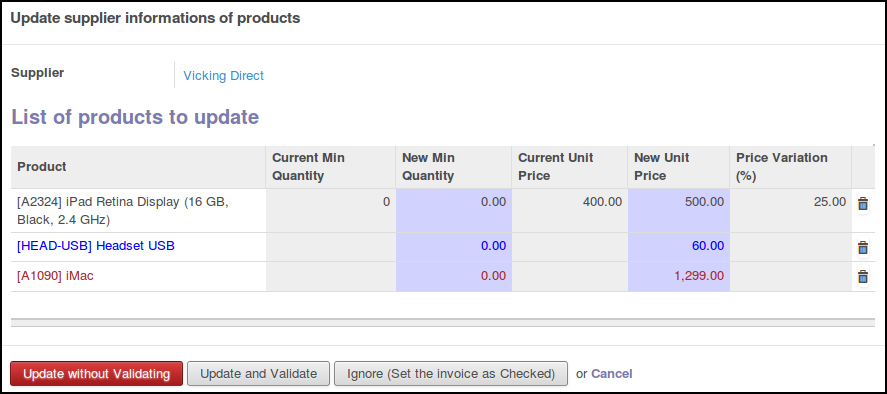
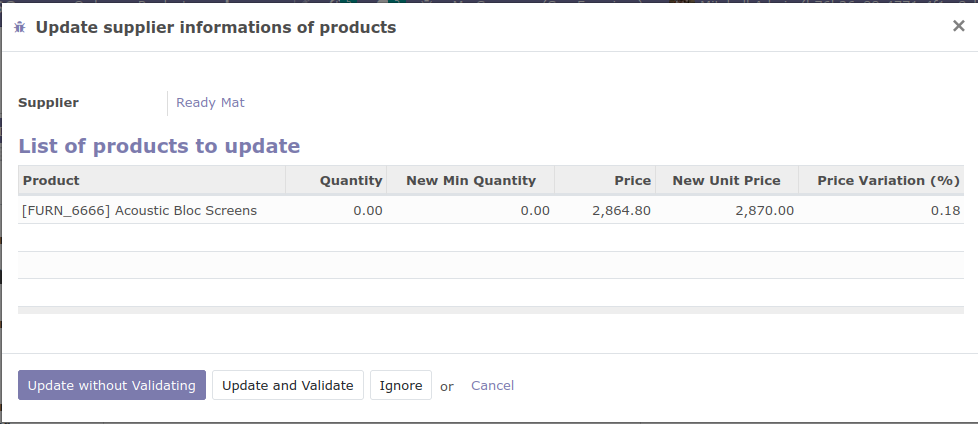
[MIG] account_invoice_supplierinfo_update: Migration to 14.0

diff --git a/account_invoice_supplierinfo_update/static/description/index.html b/account_invoice_supplierinfo_update/static/description/index.html
@@ -367,9 +367,12 @@ ul.auto-toc {
 !! This file is generated by oca-gen-addon-readme !!
 !! changes will be overwritten.                   !!
 !!!!!!!!!!!!!!!!!!!!!!!!!!!!!!!!!!!!!!!!!!!!!!!!!!!! -->
-<p><a class="reference external" href="https://odoo-community.org/page/development-status"><img alt="Beta" src="https://img.shields.io/badge/maturity-Beta-yellow.png" /></a> <a class="reference external" href="http://www.gnu.org/licenses/agpl-3.0-standalone.html"><img alt="License: AGPL-3" src="https://img.shields.io/badge/licence-AGPL--3-blue.png" /></a> <a class="reference external" href="https://github.com/OCA/account-invoicing/tree/13.0/account_invoice_supplierinfo_update"><img alt="OCA/account-invoicing" src="https://img.shields.io/badge/github-OCA%2Faccount--invoicing-lightgray.png?logo=github" /></a> <a class="reference external" href="https://translation.odoo-community.org/projects/account-invoicing-13-0/account-invoicing-13-0-account_invoice_supplierinfo_update"><img alt="Translate me on Weblate" src="https://img.shields.io/badge/weblate-Translate%20me-F47D42.png" /></a> <a class="reference external" href="https://runbot.odoo-community.org/runbot/95/13.0"><img alt="Try me on Runbot" src="https://img.shields.io/badge/runbot-Try%20me-875A7B.png" /></a></p>
-<p>This module allows to automatically update all products information in vendor bill for which the purchase information on the line are different from the supplier information defined in the product form.</p>
-<p>It creates a new supplier information line if there is not any or it updates the first one in the list.</p>
+<p><a class="reference external" href="https://odoo-community.org/page/development-status"><img alt="Beta" src="https://img.shields.io/badge/maturity-Beta-yellow.png" /></a> <a class="reference external" href="http://www.gnu.org/licenses/agpl-3.0-standalone.html"><img alt="License: AGPL-3" src="https://img.shields.io/badge/licence-AGPL--3-blue.png" /></a> <a class="reference external" href="https://github.com/OCA/account-invoicing/tree/14.0/account_invoice_supplierinfo_update"><img alt="OCA/account-invoicing" src="https://img.shields.io/badge/github-OCA%2Faccount--invoicing-lightgray.png?logo=github" /></a> <a class="reference external" href="https://translation.odoo-community.org/projects/account-invoicing-14-0/account-invoicing-14-0-account_invoice_supplierinfo_update"><img alt="Translate me on Weblate" src="https://img.shields.io/badge/weblate-Translate%20me-F47D42.png" /></a> <a class="reference external" href="https://runbot.odoo-community.org/runbot/95/14.0"><img alt="Try me on Runbot" src="https://img.shields.io/badge/runbot-Try%20me-875A7B.png" /></a></p>
+<p>This module allows to automatically update all products information in a vendor
+bill for which the purchase information on the line is different from the
+vendor information defined in the product form.</p>
+<p>It creates a new vendor information line if there isn’t any, or it updates the
+first one in the list.</p>
 <p><strong>Table of contents</strong></p>
 <div class="contents local topic" id="contents">
 <ul class="simple">
@@ -388,10 +391,11 @@ ul.auto-toc {
 <h1><a class="toc-backref" href="#id1">Usage</a></h1>
 <p>This module adds a new button ‘Check Supplier Info’ in supplier
 invoice form.</p>
-<img alt="https://raw.githubusercontent.com/OCA/account-invoicing/13.0/account_invoice_supplierinfo_update/static/description/supplier_invoice_form.png" src="https://raw.githubusercontent.com/OCA/account-invoicing/13.0/account_invoice_supplierinfo_update/static/description/supplier_invoice_form.png" />
-<p>When the user clicks on it, he can see the supplier information changes that will apply. Optionally, he can remove some temporary changes, specially, if,
-for example, a supplier applied an exceptional price change.</p>
-<img alt="https://raw.githubusercontent.com/OCA/account-invoicing/13.0/account_invoice_supplierinfo_update/static/description/main_screenshot.png" src="https://raw.githubusercontent.com/OCA/account-invoicing/13.0/account_invoice_supplierinfo_update/static/description/main_screenshot.png" />
+<img alt="https://raw.githubusercontent.com/OCA/account-invoicing/14.0/account_invoice_supplierinfo_update/static/description/supplier_invoice_form.png" src="https://raw.githubusercontent.com/OCA/account-invoicing/14.0/account_invoice_supplierinfo_update/static/description/supplier_invoice_form.png" />
+<p>When the user clicks on it, they can see the changes that will apply to the
+vendor information. Optionally, they can remove some temporary changes,
+specially, if, for example, a vendor applied an exceptional price change.</p>
+<img alt="https://raw.githubusercontent.com/OCA/account-invoicing/14.0/account_invoice_supplierinfo_update/static/description/main_screenshot.png" src="https://raw.githubusercontent.com/OCA/account-invoicing/14.0/account_invoice_supplierinfo_update/static/description/main_screenshot.png" />
 <ul class="simple">
 <li>blue: Creates a full new supplier info line</li>
 <li>brown: Updates current settings, displaying price variation (%)</li>
@@ -400,16 +404,15 @@ for example, a supplier applied an exceptional price change.</p>
 ‘Other Info’ tab inside the supplier invoice form.
 This field indicates that the prices have been checked and
 supplierinfo updated (or eventually that the changes have been ignored).</p>
-<img alt="https://raw.githubusercontent.com/OCA/account-invoicing/13.0/account_invoice_supplierinfo_update/static/description/supplier_invoice_form_other_info_tab.png" src="https://raw.githubusercontent.com/OCA/account-invoicing/13.0/account_invoice_supplierinfo_update/static/description/supplier_invoice_form_other_info_tab.png" />
+<img alt="https://raw.githubusercontent.com/OCA/account-invoicing/14.0/account_invoice_supplierinfo_update/static/description/supplier_invoice_form_other_info_tab.png" src="https://raw.githubusercontent.com/OCA/account-invoicing/14.0/account_invoice_supplierinfo_update/static/description/supplier_invoice_form_other_info_tab.png" />
 </div>
 <div class="section" id="known-issues-roadmap">
 <h1><a class="toc-backref" href="#id2">Known issues / Roadmap</a></h1>
-<p>This module does not manage correctly difference if</p>
 <ul class="simple">
-<li>invoice line taxes are not the same as products taxes. (If one is
-marked as tax included in the price and the other is marked as
-tax excluded in the price)</li>
-<li>Refactor that module to share algorithm with similar module
+<li>This module does not manage correctly the difference if invoice line taxes
+are not the same as products taxes. (If one is marked as tax included in the
+price and the other is marked as tax excluded in the price.)</li>
+<li>Refactor this module to share algorithm with the similar module
 <cite>purchase_order_supplierinfo_update</cite></li>
 </ul>
 </div>
@@ -418,7 +421,7 @@ tax excluded in the price)</li>
 <p>Bugs are tracked on <a class="reference external" href="https://github.com/OCA/account-invoicing/issues">GitHub Issues</a>.
 In case of trouble, please check there if your issue has already been reported.
 If you spotted it first, help us smashing it by providing a detailed and welcomed
-<a class="reference external" href="https://github.com/OCA/account-invoicing/issues/new?body=module:%20account_invoice_supplierinfo_update%0Aversion:%2013.0%0A%0A**Steps%20to%20reproduce**%0A-%20...%0A%0A**Current%20behavior**%0A%0A**Expected%20behavior**">feedback</a>.</p>
+<a class="reference external" href="https://github.com/OCA/account-invoicing/issues/new?body=module:%20account_invoice_supplierinfo_update%0Aversion:%2014.0%0A%0A**Steps%20to%20reproduce**%0A-%20...%0A%0A**Current%20behavior**%0A%0A**Expected%20behavior**">feedback</a>.</p>
 <p>Do not contact contributors directly about support or help with technical issues.</p>
 </div>
 <div class="section" id="credits">
@@ -439,6 +442,7 @@ If you spotted it first, help us smashing it by providing a detailed and welcome
 <li>Stefan Rijnhart &lt;<a class="reference external" href="mailto:stefan&#64;opener.amsterdam">stefan&#64;opener.amsterdam</a>&gt;</li>
 <li><a class="reference external" href="https://www.tecnativa.com">Tecnativa</a>:<ul>
 <li>Ernesto Tejeda</li>
+<li>Luis D. Lafaurie</li>
 </ul>
 </li>
 </ul>
@@ -450,7 +454,7 @@ If you spotted it first, help us smashing it by providing a detailed and welcome
 <p>OCA, or the Odoo Community Association, is a nonprofit organization whose
 mission is to support the collaborative development of Odoo features and
 promote its widespread use.</p>
-<p>This module is part of the <a class="reference external" href="https://github.com/OCA/account-invoicing/tree/13.0/account_invoice_supplierinfo_update">OCA/account-invoicing</a> project on GitHub.</p>
+<p>This module is part of the <a class="reference external" href="https://github.com/OCA/account-invoicing/tree/14.0/account_invoice_supplierinfo_update">OCA/account-invoicing</a> project on GitHub.</p>
 <p>You are welcome to contribute. To learn how please visit <a class="reference external" href="https://odoo-community.org/page/Contribute">https://odoo-community.org/page/Contribute</a>.</p>
 </div>
 </div>

diff --git a/account_invoice_supplierinfo_update/tests/test_account_invoice_supplierinfo_update.py b/account_invoice_supplierinfo_update/tests/test_account_invoice_supplierinfo_update.py
@@ -1,39 +1,60 @@
 # Copyright 2016 Chafique DELLI @ Akretion
 # License AGPL-3.0 or later (http://www.gnu.org/licenses/agpl.html).
+
+from odoo.tests import tagged
 from odoo.tests.common import Form, TransactionCase
 
 
+@tagged("post_install", "-at_install")
 class Tests(TransactionCase):
     def setUp(self):
         super(Tests, self).setUp()
         self.wizard_obj = self.env["wizard.update.invoice.supplierinfo"]
         self.supplierinfo_obj = self.env["product.supplierinfo"]
         self.invoice_model = self.env["account.move"]
+        unit = self.env.ref("uom.product_uom_unit")
         journal_model = self.env["account.journal"]
         self.journal = journal_model.search([("type", "=", "purchase")], limit=1)
-        self.product1 = self.env.ref("product.product_product_4b")
-        self.product2 = self.env.ref("product.product_delivery_01")
-        unit = self.env.ref("uom.product_uom_unit")
+        self.product1 = self.env["product.product"].create(
+            {"name": "Test product 1", "uom_id": unit.id}
+        )
+        self.product2 = self.env["product.product"].create(
+            {"name": "Test product 2", "uom_id": unit.id}
+        )
+        # We need to explicitly set the account on lines with no product, but also on
+        # the rest due to a glitch not assigning such account when setting the product
+        self.account = self.env["account.account"].search(
+            [
+                (
+                    "user_type_id",
+                    "=",
+                    self.env.ref("account.data_account_type_expenses").id,
+                ),
+                ("company_id", "=", self.env.company.id),
+            ],
+            limit=1,
+        )
+        self.vendor = self.env["res.partner"].create({"name": "Test vendor"})
         self.currency = self.env.ref("base.GBP")
         self.journal.write({"currency_id": self.currency.id})
-
         invoice_form = Form(self.invoice_model.with_context(default_type="in_invoice"))
-        invoice_form.partner_id = self.env.ref("base.res_partner_12")
+        invoice_form.partner_id = self.vendor
         invoice_form.journal_id = self.journal
         with invoice_form.invoice_line_ids.new() as line_form:
             line_form.product_id = self.product1
+            line_form.account_id = self.account
             line_form.quantity = 10.0
-            line_form.product_uom_id = unit
             line_form.price_unit = 400.0
         with invoice_form.invoice_line_ids.new() as line_form:
             line_form.name = "line without product"
             line_form.quantity = 1.0
+            line_form.account_id = self.account
             line_form.product_uom_id = unit
             line_form.price_unit = 35.0
         with invoice_form.invoice_line_ids.new() as line_form:
             line_form.product_id = self.product2
+            line_form.account_id = self.account
             line_form.quantity = 1.0
-            line_form.product_uom_id = unit
             line_form.price_unit = 10.0
         self.invoice = invoice_form.save()
 
@@ -46,15 +67,15 @@ class Tests(TransactionCase):
         line_ids = vals_wizard.get("default_line_ids", {})
         invoice_id = vals_wizard.get("default_invoice_id", {})
 
-        self.assertEquals(len(line_ids), 2)
-        self.assertEquals(line_ids[0][2]["current_price"], False)
-        self.assertEquals(line_ids[0][2]["new_price"], 400.0)
+        self.assertEqual(len(line_ids), 2)
+        self.assertEqual(line_ids[0][2]["current_price"], False)
+        self.assertEqual(line_ids[0][2]["new_price"], 400.0)
 
         # Create and launch update process
         wizard = self.wizard_obj.create(
             {"line_ids": line_ids, "invoice_id": invoice_id}
         )
-        self.assertEquals(wizard.line_ids[1].new_price, 10.0)
+        self.assertEqual(wizard.line_ids[1].new_price, 10.0)
         wizard.update_supplierinfo()
 
         supplierinfos1 = self.supplierinfo_obj.search(
@@ -67,10 +88,10 @@ class Tests(TransactionCase):
                 ),
             ]
         )
-        self.assertEquals(len(supplierinfos1), 1)
+        self.assertEqual(len(supplierinfos1), 1)
         self.assertEqual(supplierinfos1.currency_id, self.currency)
 
-        self.assertEquals(supplierinfos1.price, 400.0)
+        self.assertEqual(supplierinfos1.price, 400.0)
 
         supplierinfos2 = self.supplierinfo_obj.search(
             [
@@ -82,9 +103,9 @@ class Tests(TransactionCase):
                 ),
             ]
         )
-        self.assertEquals(len(supplierinfos2), 1)
+        self.assertEqual(len(supplierinfos2), 1)
 
-        self.assertEquals(supplierinfos2.price, 10.0)
+        self.assertEqual(supplierinfos2.price, 10.0)
 
     def test_update_pricelist_supplierinfo_uom_conversion(self):
         """Price is converted to the product's purchase UOM"""
@@ -102,7 +123,7 @@ class Tests(TransactionCase):
 
         # Prices are converted to the purchase UOM.
         # 33 per unit equals 396 per dozen
-        self.assertEquals(line.new_price, 396.0)
+        self.assertEqual(line.new_price, 396.0)
 
         wizard.update_supplierinfo()
         supplierinfo = self.supplierinfo_obj.search(
@@ -111,5 +132,5 @@ class Tests(TransactionCase):
                 ("product_tmpl_id", "=", self.product1.product_tmpl_id.id),
             ]
         )
-        self.assertEquals(supplierinfo.price, 396.0)
+        self.assertEqual(supplierinfo.price, 396.0)
         self.assertTrue(invoice_line._is_correct_price(supplierinfo))

diff --git a/account_invoice_supplierinfo_update/__manifest__.py b/account_invoice_supplierinfo_update/__manifest__.py
@@ -8,7 +8,7 @@
     "summary": "In the supplier invoice, automatically updates all products "
     "whose unit price on the line is different from "
     "the supplier price",
-    "version": "13.0.1.0.0",
+    "version": "14.0.1.0.0",
     "category": "Accounting & Finance",
     "website": "https://github.com/OCA/account-invoicing",
     "author": "Akretion, GRAP, Odoo Community Association (OCA)",
@@ -16,8 +16,8 @@
     "installable": True,
     "depends": ["account"],
     "data": [
+        "security/ir.model.access.csv",
         "views/account_invoice_view.xml",
         "wizard/wizard_update_invoice_supplierinfo.xml",
     ],
-    "images": ["static/description/main_screenshot.png"],
 }

diff --git a/account_invoice_supplierinfo_update/README.rst b/account_invoice_supplierinfo_update/README.rst
@@ -14,20 +14,23 @@ Account Invoice - Supplier Info Update
     :target: http://www.gnu.org/licenses/agpl-3.0-standalone.html
     :alt: License: AGPL-3
 .. |badge3| image:: https://img.shields.io/badge/github-OCA%2Faccount--invoicing-lightgray.png?logo=github
-    :target: https://github.com/OCA/account-invoicing/tree/13.0/account_invoice_supplierinfo_update
+    :target: https://github.com/OCA/account-invoicing/tree/14.0/account_invoice_supplierinfo_update
     :alt: OCA/account-invoicing
 .. |badge4| image:: https://img.shields.io/badge/weblate-Translate%20me-F47D42.png
-    :target: https://translation.odoo-community.org/projects/account-invoicing-13-0/account-invoicing-13-0-account_invoice_supplierinfo_update
+    :target: https://translation.odoo-community.org/projects/account-invoicing-14-0/account-invoicing-14-0-account_invoice_supplierinfo_update
     :alt: Translate me on Weblate
 .. |badge5| image:: https://img.shields.io/badge/runbot-Try%20me-875A7B.png
-    :target: https://runbot.odoo-community.org/runbot/95/13.0
+    :target: https://runbot.odoo-community.org/runbot/95/14.0
     :alt: Try me on Runbot
 
 |badge1| |badge2| |badge3| |badge4| |badge5| 
 
-This module allows to automatically update all products information in vendor bill for which the purchase information on the line are different from the supplier information defined in the product form.
+This module allows to automatically update all products information in a vendor
+bill for which the purchase information on the line is different from the
+vendor information defined in the product form.
 
-It creates a new supplier information line if there is not any or it updates the first one in the list.
+It creates a new vendor information line if there isn't any, or it updates the
+first one in the list.
 
 **Table of contents**
 
@@ -40,13 +43,13 @@ Usage
 This module adds a new button 'Check Supplier Info' in supplier
 invoice form.
 
-.. image:: https://raw.githubusercontent.com/OCA/account-invoicing/13.0/account_invoice_supplierinfo_update/static/description/supplier_invoice_form.png
+.. image:: https://raw.githubusercontent.com/OCA/account-invoicing/14.0/account_invoice_supplierinfo_update/static/description/supplier_invoice_form.png
 
+When the user clicks on it, they can see the changes that will apply to the
+vendor information. Optionally, they can remove some temporary changes,
+specially, if, for example, a vendor applied an exceptional price change.
 
-When the user clicks on it, he can see the supplier information changes that will apply. Optionally, he can remove some temporary changes, specially, if,
-for example, a supplier applied an exceptional price change.
-
-.. image:: https://raw.githubusercontent.com/OCA/account-invoicing/13.0/account_invoice_supplierinfo_update/static/description/main_screenshot.png
+.. image:: https://raw.githubusercontent.com/OCA/account-invoicing/14.0/account_invoice_supplierinfo_update/static/description/main_screenshot.png
 
 * blue: Creates a full new supplier info line
 * brown: Updates current settings, displaying price variation (%)
@@ -56,17 +59,16 @@ This module adds an extra boolean field 'Supplier Informations Checked' in the
 This field indicates that the prices have been checked and
 supplierinfo updated (or eventually that the changes have been ignored).
 
-.. image:: https://raw.githubusercontent.com/OCA/account-invoicing/13.0/account_invoice_supplierinfo_update/static/description/supplier_invoice_form_other_info_tab.png
+.. image:: https://raw.githubusercontent.com/OCA/account-invoicing/14.0/account_invoice_supplierinfo_update/static/description/supplier_invoice_form_other_info_tab.png
 
 Known issues / Roadmap
 ======================
 
-This module does not manage correctly difference if
+* This module does not manage correctly the difference if invoice line taxes
+  are not the same as products taxes. (If one is marked as tax included in the
+  price and the other is marked as tax excluded in the price.)
 
-* invoice line taxes are not the same as products taxes. (If one is
-  marked as tax included in the price and the other is marked as
-  tax excluded in the price)
-* Refactor that module to share algorithm with similar module
+* Refactor this module to share algorithm with the similar module
   `purchase_order_supplierinfo_update`
 
 Bug Tracker
@@ -75,7 +77,7 @@ Bug Tracker
 Bugs are tracked on `GitHub Issues <https://github.com/OCA/account-invoicing/issues>`_.
 In case of trouble, please check there if your issue has already been reported.
 If you spotted it first, help us smashing it by providing a detailed and welcomed
-`feedback <https://github.com/OCA/account-invoicing/issues/new?body=module:%20account_invoice_supplierinfo_update%0Aversion:%2013.0%0A%0A**Steps%20to%20reproduce**%0A-%20...%0A%0A**Current%20behavior**%0A%0A**Expected%20behavior**>`_.
+`feedback <https://github.com/OCA/account-invoicing/issues/new?body=module:%20account_invoice_supplierinfo_update%0Aversion:%2014.0%0A%0A**Steps%20to%20reproduce**%0A-%20...%0A%0A**Current%20behavior**%0A%0A**Expected%20behavior**>`_.
 
 Do not contact contributors directly about support or help with technical issues.
 
@@ -98,6 +100,7 @@ Contributors
 * `Tecnativa <https://www.tecnativa.com>`_:
 
   * Ernesto Tejeda
+  * Luis D. Lafaurie
 
 Maintainers
 ~~~~~~~~~~~
@@ -112,6 +115,6 @@ OCA, or the Odoo Community Association, is a nonprofit organization whose
 mission is to support the collaborative development of Odoo features and
 promote its widespread use.
 
-This module is part of the `OCA/account-invoicing <https://github.com/OCA/account-invoicing/tree/13.0/account_invoice_supplierinfo_update>`_ project on GitHub.
+This module is part of the `OCA/account-invoicing <https://github.com/OCA/account-invoicing/tree/14.0/account_invoice_supplierinfo_update>`_ project on GitHub.
 
 You are welcome to contribute. To learn how please visit https://odoo-community.org/page/Contribute.

diff --git a/account_invoice_supplierinfo_update/readme/ROADMAP.rst b/account_invoice_supplierinfo_update/readme/ROADMAP.rst
@@ -1,7 +1,6 @@
-This module does not manage correctly difference if
+* This module does not manage correctly the difference if invoice line taxes
+  are not the same as products taxes. (If one is marked as tax included in the
+  price and the other is marked as tax excluded in the price.)
 
-* invoice line taxes are not the same as products taxes. (If one is
-  marked as tax included in the price and the other is marked as
-  tax excluded in the price)
-* Refactor that module to share algorithm with similar module
+* Refactor this module to share algorithm with the similar module
   `purchase_order_supplierinfo_update`

diff --git a/account_invoice_supplierinfo_update/readme/DESCRIPTION.rst b/account_invoice_supplierinfo_update/readme/DESCRIPTION.rst
@@ -1,3 +1,6 @@
-This module allows to automatically update all products information in vendor bill for which the purchase information on the line are different from the supplier information defined in the product form.
+This module allows to automatically update all products information in a vendor
+bill for which the purchase information on the line is different from the
+vendor information defined in the product form.
 
-It creates a new supplier information line if there is not any or it updates the first one in the list.
+It creates a new vendor information line if there isn't any, or it updates the
+first one in the list.

diff --git a/account_invoice_supplierinfo_update/readme/USAGE.rst b/account_invoice_supplierinfo_update/readme/USAGE.rst
@@ -3,9 +3,9 @@ invoice form.
 
 .. image:: ../static/description/supplier_invoice_form.png
 
-
-When the user clicks on it, he can see the supplier information changes that will apply. Optionally, he can remove some temporary changes, specially, if,
-for example, a supplier applied an exceptional price change.
+When the user clicks on it, they can see the changes that will apply to the
+vendor information. Optionally, they can remove some temporary changes,
+specially, if, for example, a vendor applied an exceptional price change.
 
 .. image:: ../static/description/main_screenshot.png
 

diff --git a/account_invoice_supplierinfo_update/readme/CONTRIBUTORS.rst b/account_invoice_supplierinfo_update/readme/CONTRIBUTORS.rst
@@ -5,3 +5,4 @@
 * `Tecnativa <https://www.tecnativa.com>`_:
 
   * Ernesto Tejeda
+  * Luis D. Lafaurie